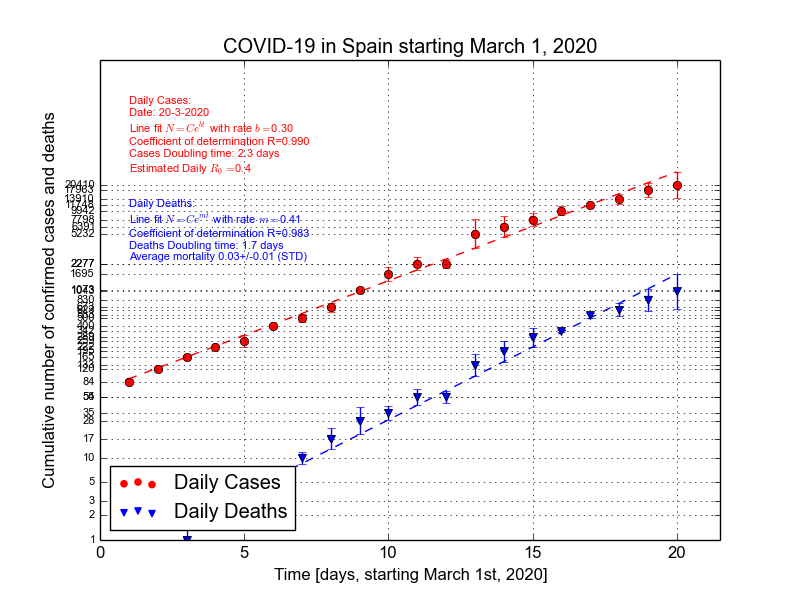
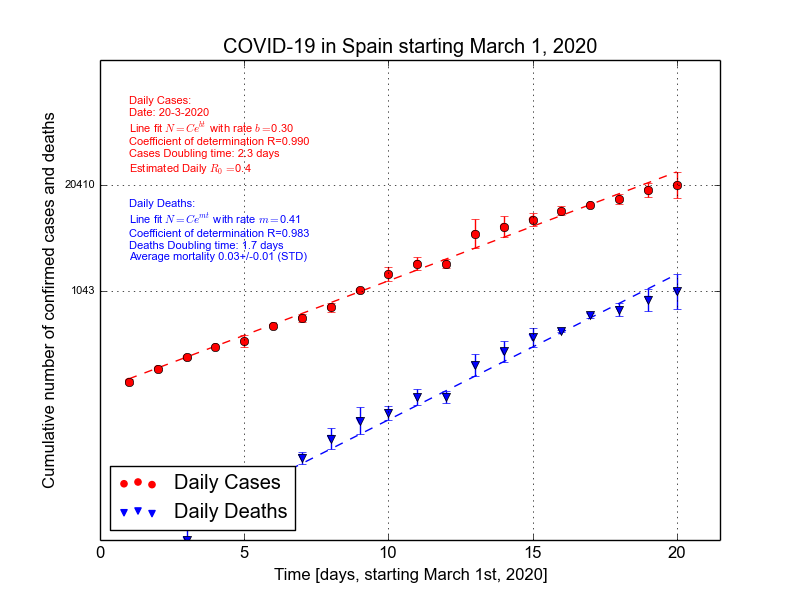
last tick only

diff --git a/cov_lin_models.py b/cov_lin_models.py
@@ -199,6 +199,11 @@ def plot_countries(datasets, month, country):
         y_all_real.extend(deaths)
     y_all_real.extend(cases)
     y_all = np.log(y_all_real)
+    last_tick_real = []
+    if deaths:
+        last_tick_real.append(deaths[-1])
+    last_tick_real.append(y_all_real[-1])
+    last_tick = np.log(last_tick_real)
 
     # plotting cases
     plt.scatter(x_cases, y_cases, color='r',
@@ -235,7 +240,7 @@ def plot_countries(datasets, month, country):
         if deaths:
             plt.text(1., y_cases[-1] - 2.1, plot_text_d, fontsize=8, color='b')
     plt.legend(loc="lower left")
-    plt.yticks(y_all, [np.int(y01) for y01 in y_all_real])
+    plt.yticks(last_tick, [np.int(y01) for y01 in last_tick_real])
     plt.tick_params(axis="y", labelsize=8)
     plt.savefig(os.path.join("country_plots", plot_name))
     plt.close()
